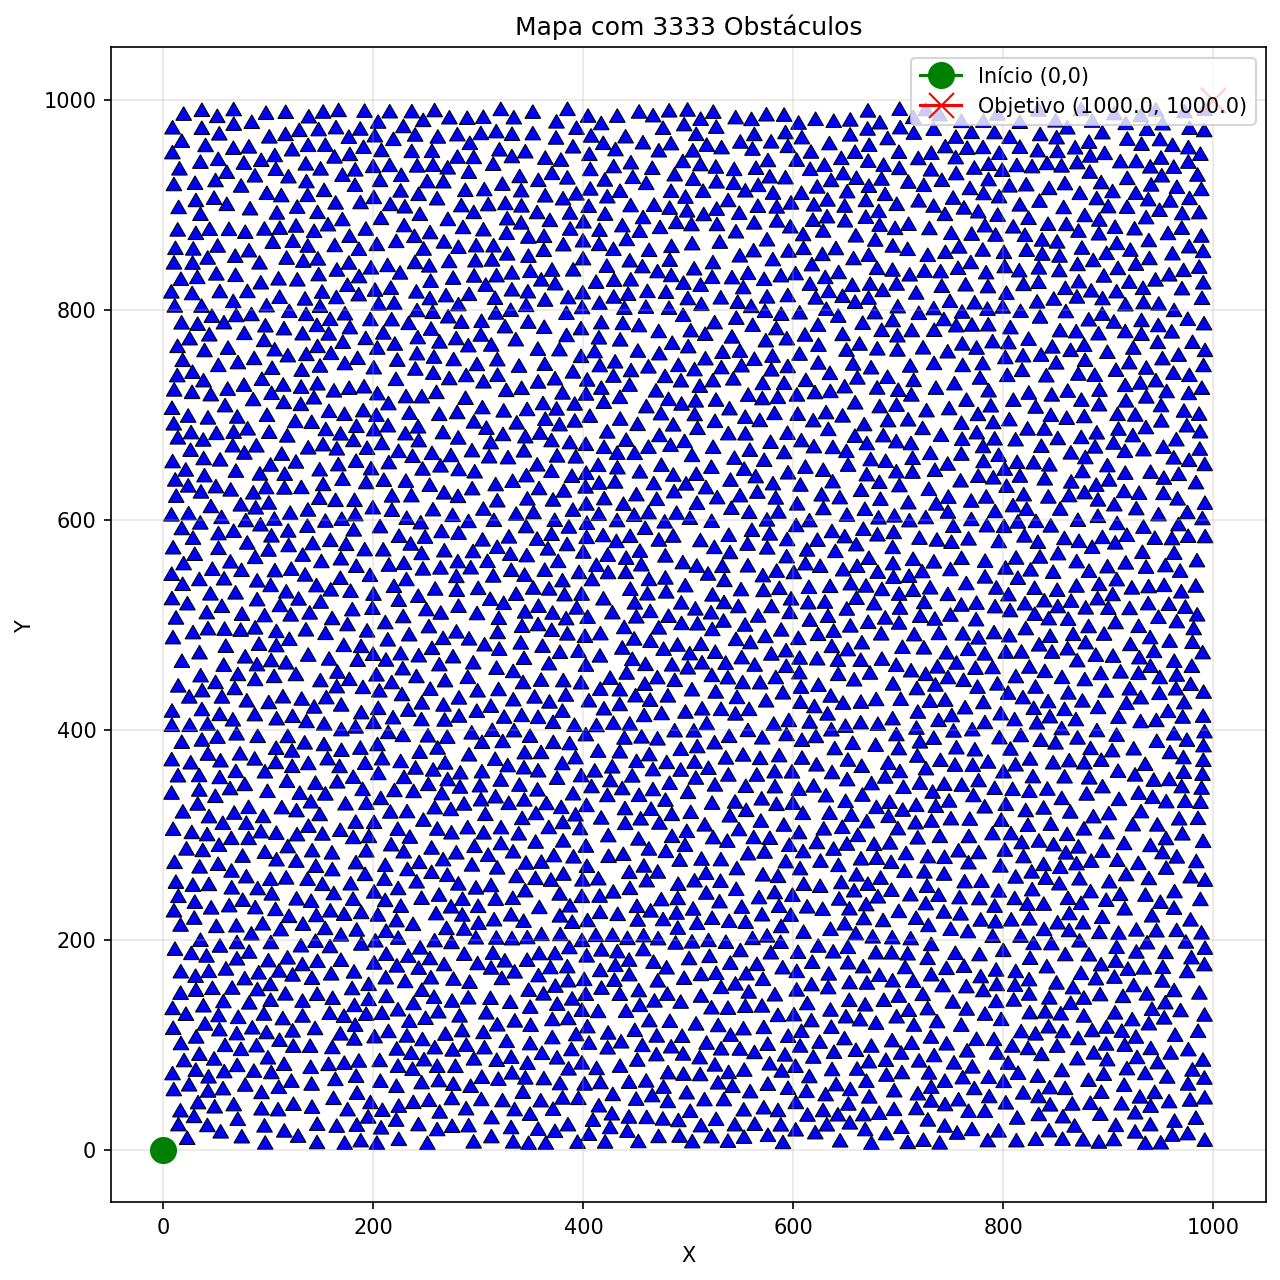
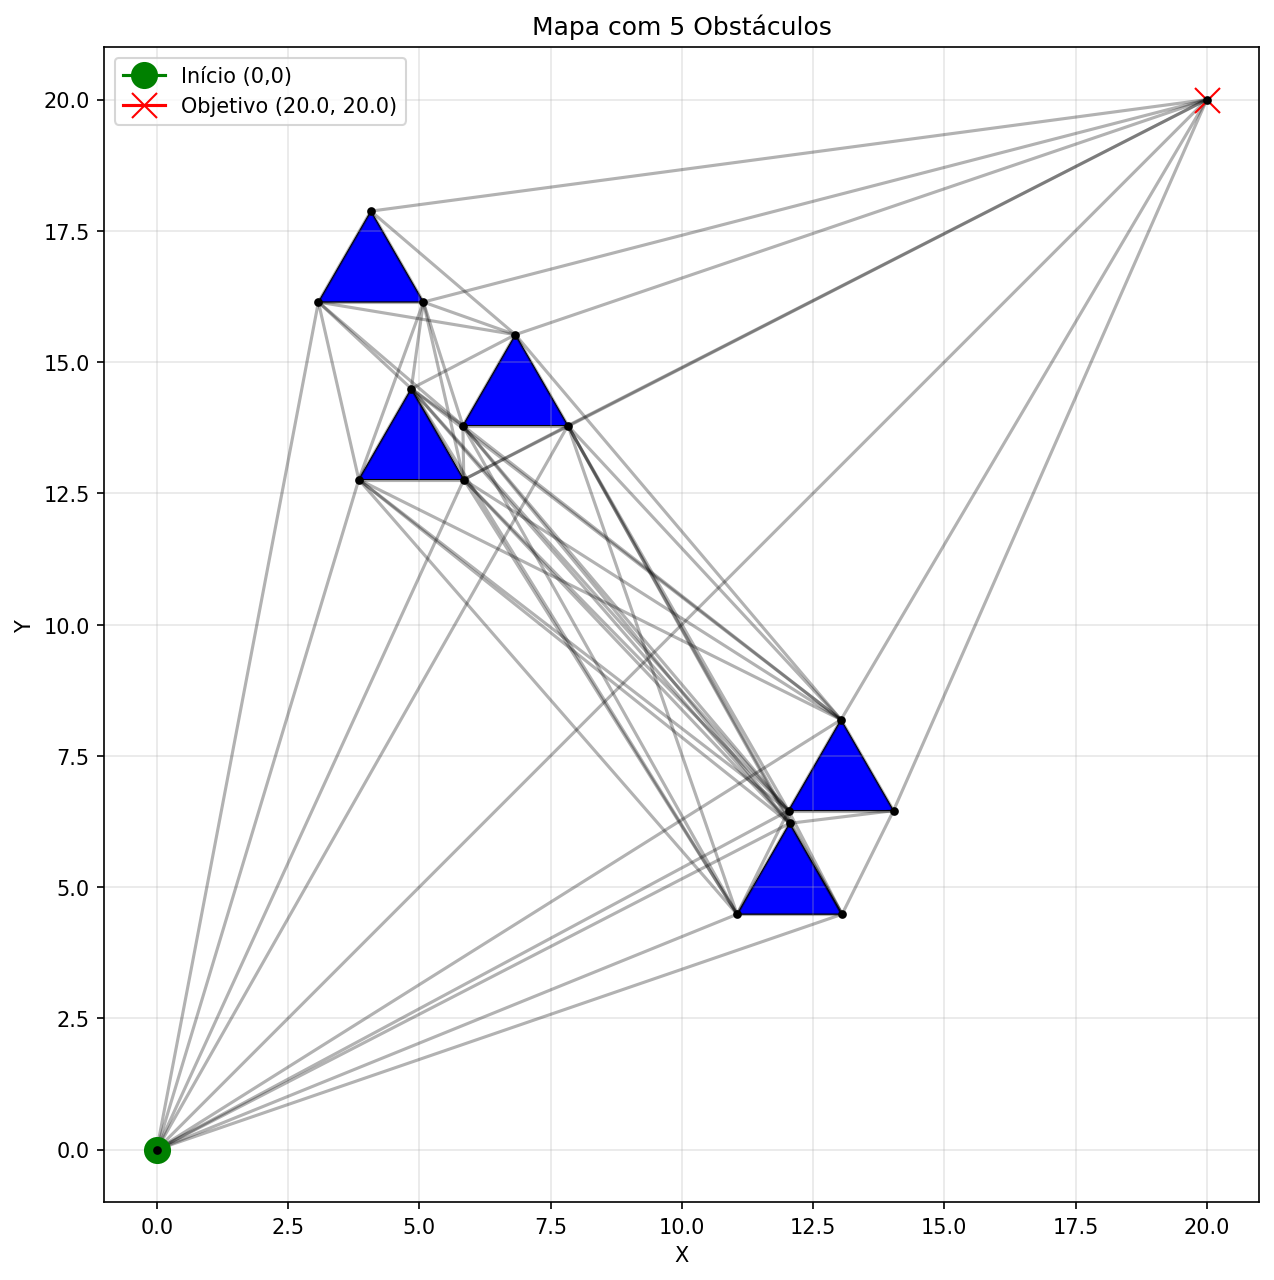
feat: Todos os caminhos

diff --git a/src/main.py b/src/main.py
@@ -1,6 +1,19 @@
 from problema.triangulo.utils import Utils
 from problema.triangulo.triangulo import Triangulo
 from problema.visualizacao.plot import plotar_mapa
+import math
+
+def defini_caminho(grafo, vizinhos, caminho, inicio, fim):
+    "Funcao para mostrar todas as arestas de todos os triangulos, com busca em profundidade (tem que passar por todos os caminhos possiveis)"
+    for vizinho in vizinhos:
+        if vizinho not in caminho:
+            caminho.append(vizinho)
+            if vizinho == fim:
+                return True
+            if defini_caminho(grafo, grafo.get(vizinho, []), caminho, inicio, fim):
+                return True
+            caminho.pop()
+    return False
 
 def pegar_linhas(triangulo):
     """Le o dicionário do grafo e devolve uma lista de linhas sem repetição."""
@@ -78,6 +91,40 @@ def main():
         obstaculos = Triangulo.gerar_obstaculos(goal_x, goal_y, n_obstaculos, tamanho_triangulo)
         print(f" {len(obstaculos)} obstáculos gerados com sucesso!")
         
+        # Coletar todos os vértices
+        vertices = set()
+        for obs in obstaculos:
+            vertices.update(obs.get_vertices())
+        vertices.add((0.0, 0.0))
+        vertices.add((goal_x, goal_y))
+        
+        # Construir grafo de visibilidade entre vértices
+        grafo = {v: [] for v in vertices}
+        for v1 in vertices:
+            for v2 in vertices:
+                if v1 != v2:
+                    visible = True
+                    for obs in obstaculos:
+                        for aresta in obs.get_arestas():
+                            if Utils.verifica_linhas(v1, v2, aresta[0], aresta[1]):
+                                visible = False
+                                break
+                        if not visible:
+                            break
+                    if visible:
+                        grafo[v1].append(v2)
+        
+        # Encontrar caminho entre (0,0) e (goal_x, goal_y)
+        caminho = None
+        inicio = (0.0, 0.0)
+        fim = (goal_x, goal_y)
+        caminho_temp = [inicio]
+        if defini_caminho(grafo, grafo.get(inicio, []), caminho_temp, inicio, fim):
+            caminho = caminho_temp
+            print(f"Caminho encontrado: {caminho}")
+        else:
+            print("Nenhum caminho encontrado.")
+        
         # Mostrar coordenadas dos obstáculos
         print("\nCoordenadas dos obstáculos:")
         for i, obs in enumerate(obstaculos):
@@ -86,7 +133,7 @@ def main():
         
         # Plotar mapa
         print("\n Gerando visualização...")
-        plotar_mapa(goal_x, goal_y, obstaculos)
+        plotar_mapa(goal_x, goal_y, obstaculos, grafo, caminho)
         
     except Exception as e:
         print(f" Erro ao gerar obstáculos: {e}")

diff --git a/src/problema/visualizacao/plot.py b/src/problema/visualizacao/plot.py
@@ -1,6 +1,6 @@
 import matplotlib.pyplot as plt
 
-def plotar_mapa(largura, altura, obstaculos):
+def plotar_mapa(largura, altura, obstaculos, grafo=None, caminho=None):
     """
     Plota os obstáculos (triângulos), o ponto de inicio e o objetivo no mapa.
     
@@ -8,6 +8,8 @@ def plotar_mapa(largura, altura, obstaculos):
         largura: Largura do mapa
         altura: Altura do mapa
         obstaculos: Lista de objetos Triangulo
+        grafo: Dicionário {triangulo: lista de vizinhos} para plotar arestas do grafo
+        caminho: Lista de triangulos no caminho encontrado
         ponto de inicio: Inicio do mapa
         objetivo: Ponto final do mapa
     """
@@ -39,6 +41,19 @@ def plotar_mapa(largura, altura, obstaculos):
             vertices_sorted.append(vertices_sorted[0])
             xs, ys = zip(*vertices_sorted)
             ax.fill(xs, ys, "blue", edgecolor="black", linewidth=0.5)
+    
+    # Plotar vértices
+    if grafo:
+        all_vertices = list(grafo.keys())
+        ax.scatter([v[0] for v in all_vertices], [v[1] for v in all_vertices], c='black', s=10, zorder=5)
+    
+    # Plotar arestas do grafo se fornecido
+    if grafo:
+        for v1, vizinhos in grafo.items():
+            for v2 in vizinhos:
+                if v1 < v2:  # Evitar plotar duas vezes
+                    ax.plot([v1[0], v2[0]], [v1[1], v2[1]], 'k-', alpha=0.3)
+    
     
     # Plot do inicio e do objetivo
     ax.plot(0, 0, marker='o', color='green', markersize=12, label='Início (0,0)')

diff --git a/src/problema/triangulo/triangulo.py b/src/problema/triangulo/triangulo.py
@@ -157,7 +157,7 @@ class Triangulo:
             if tentativas_locais >= max_tentativas_por_obstaculo:
                 print(f"Aviso: Não foi possível gerar triângulo {i+1}/{n}.")
                 break
-        
+
         print(f"\n{'='*60}")
         print(f"ESTATÍSTICAS DA GERAÇÃO")
         print(f"{'='*60}")
